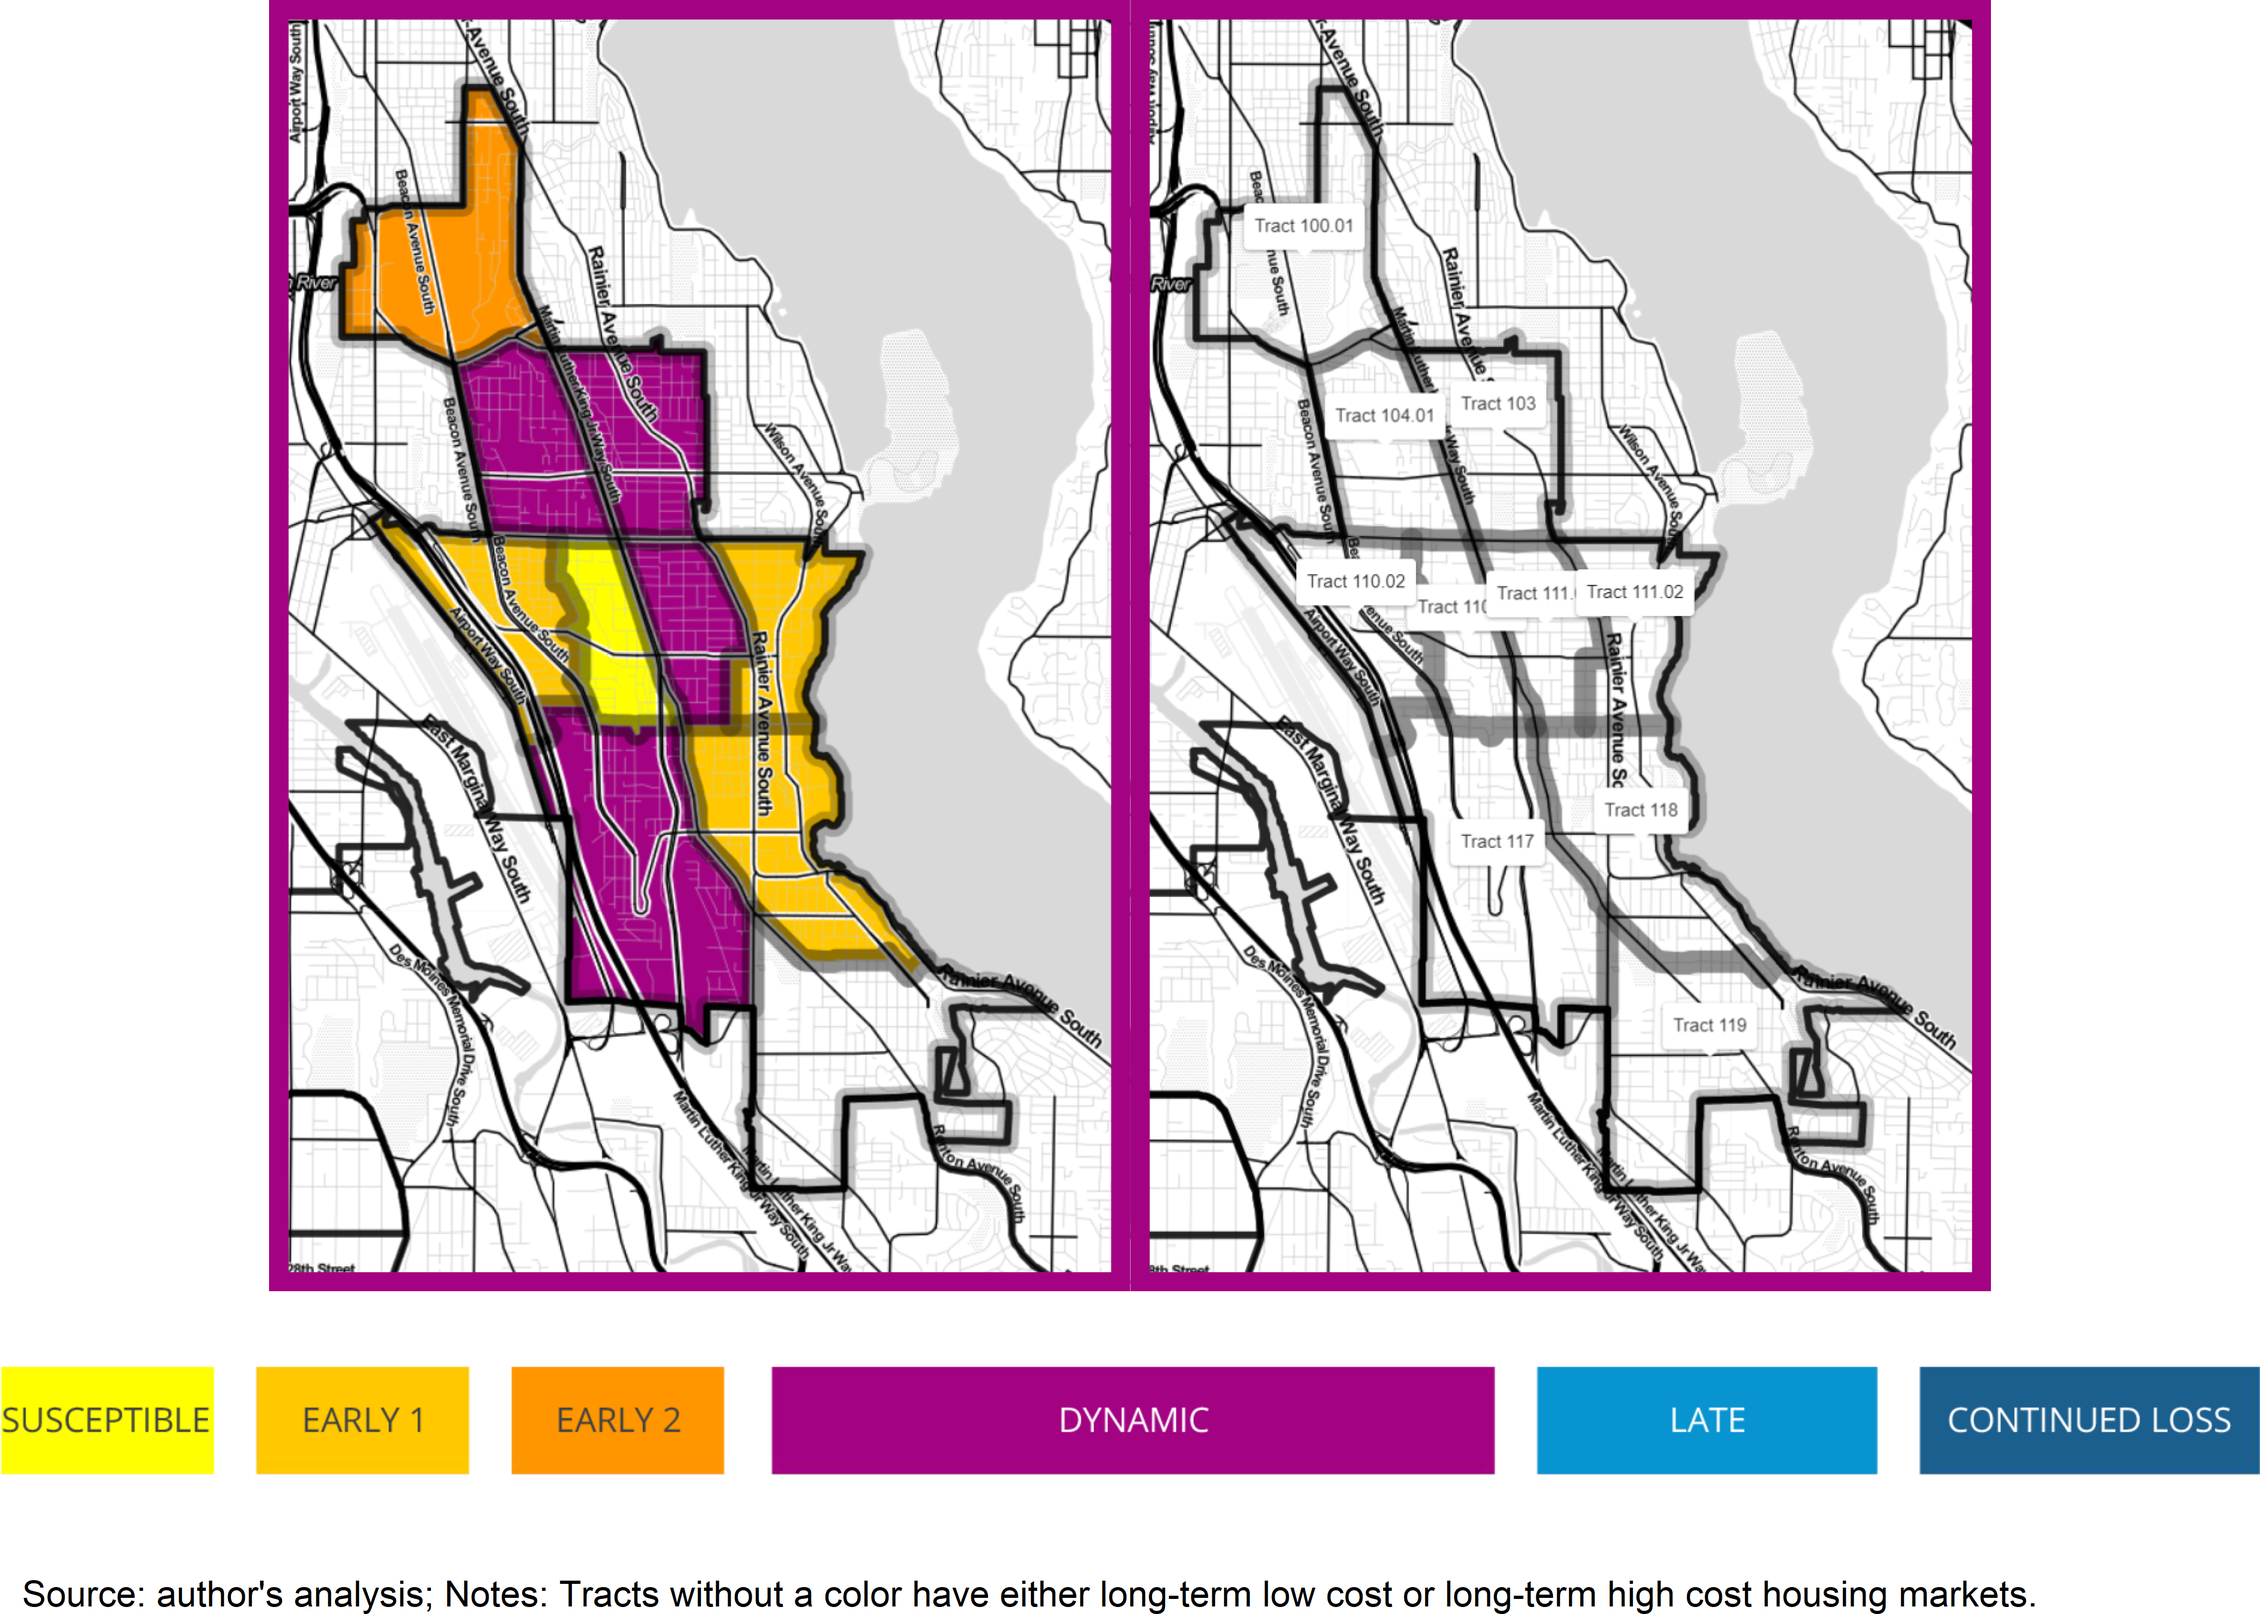
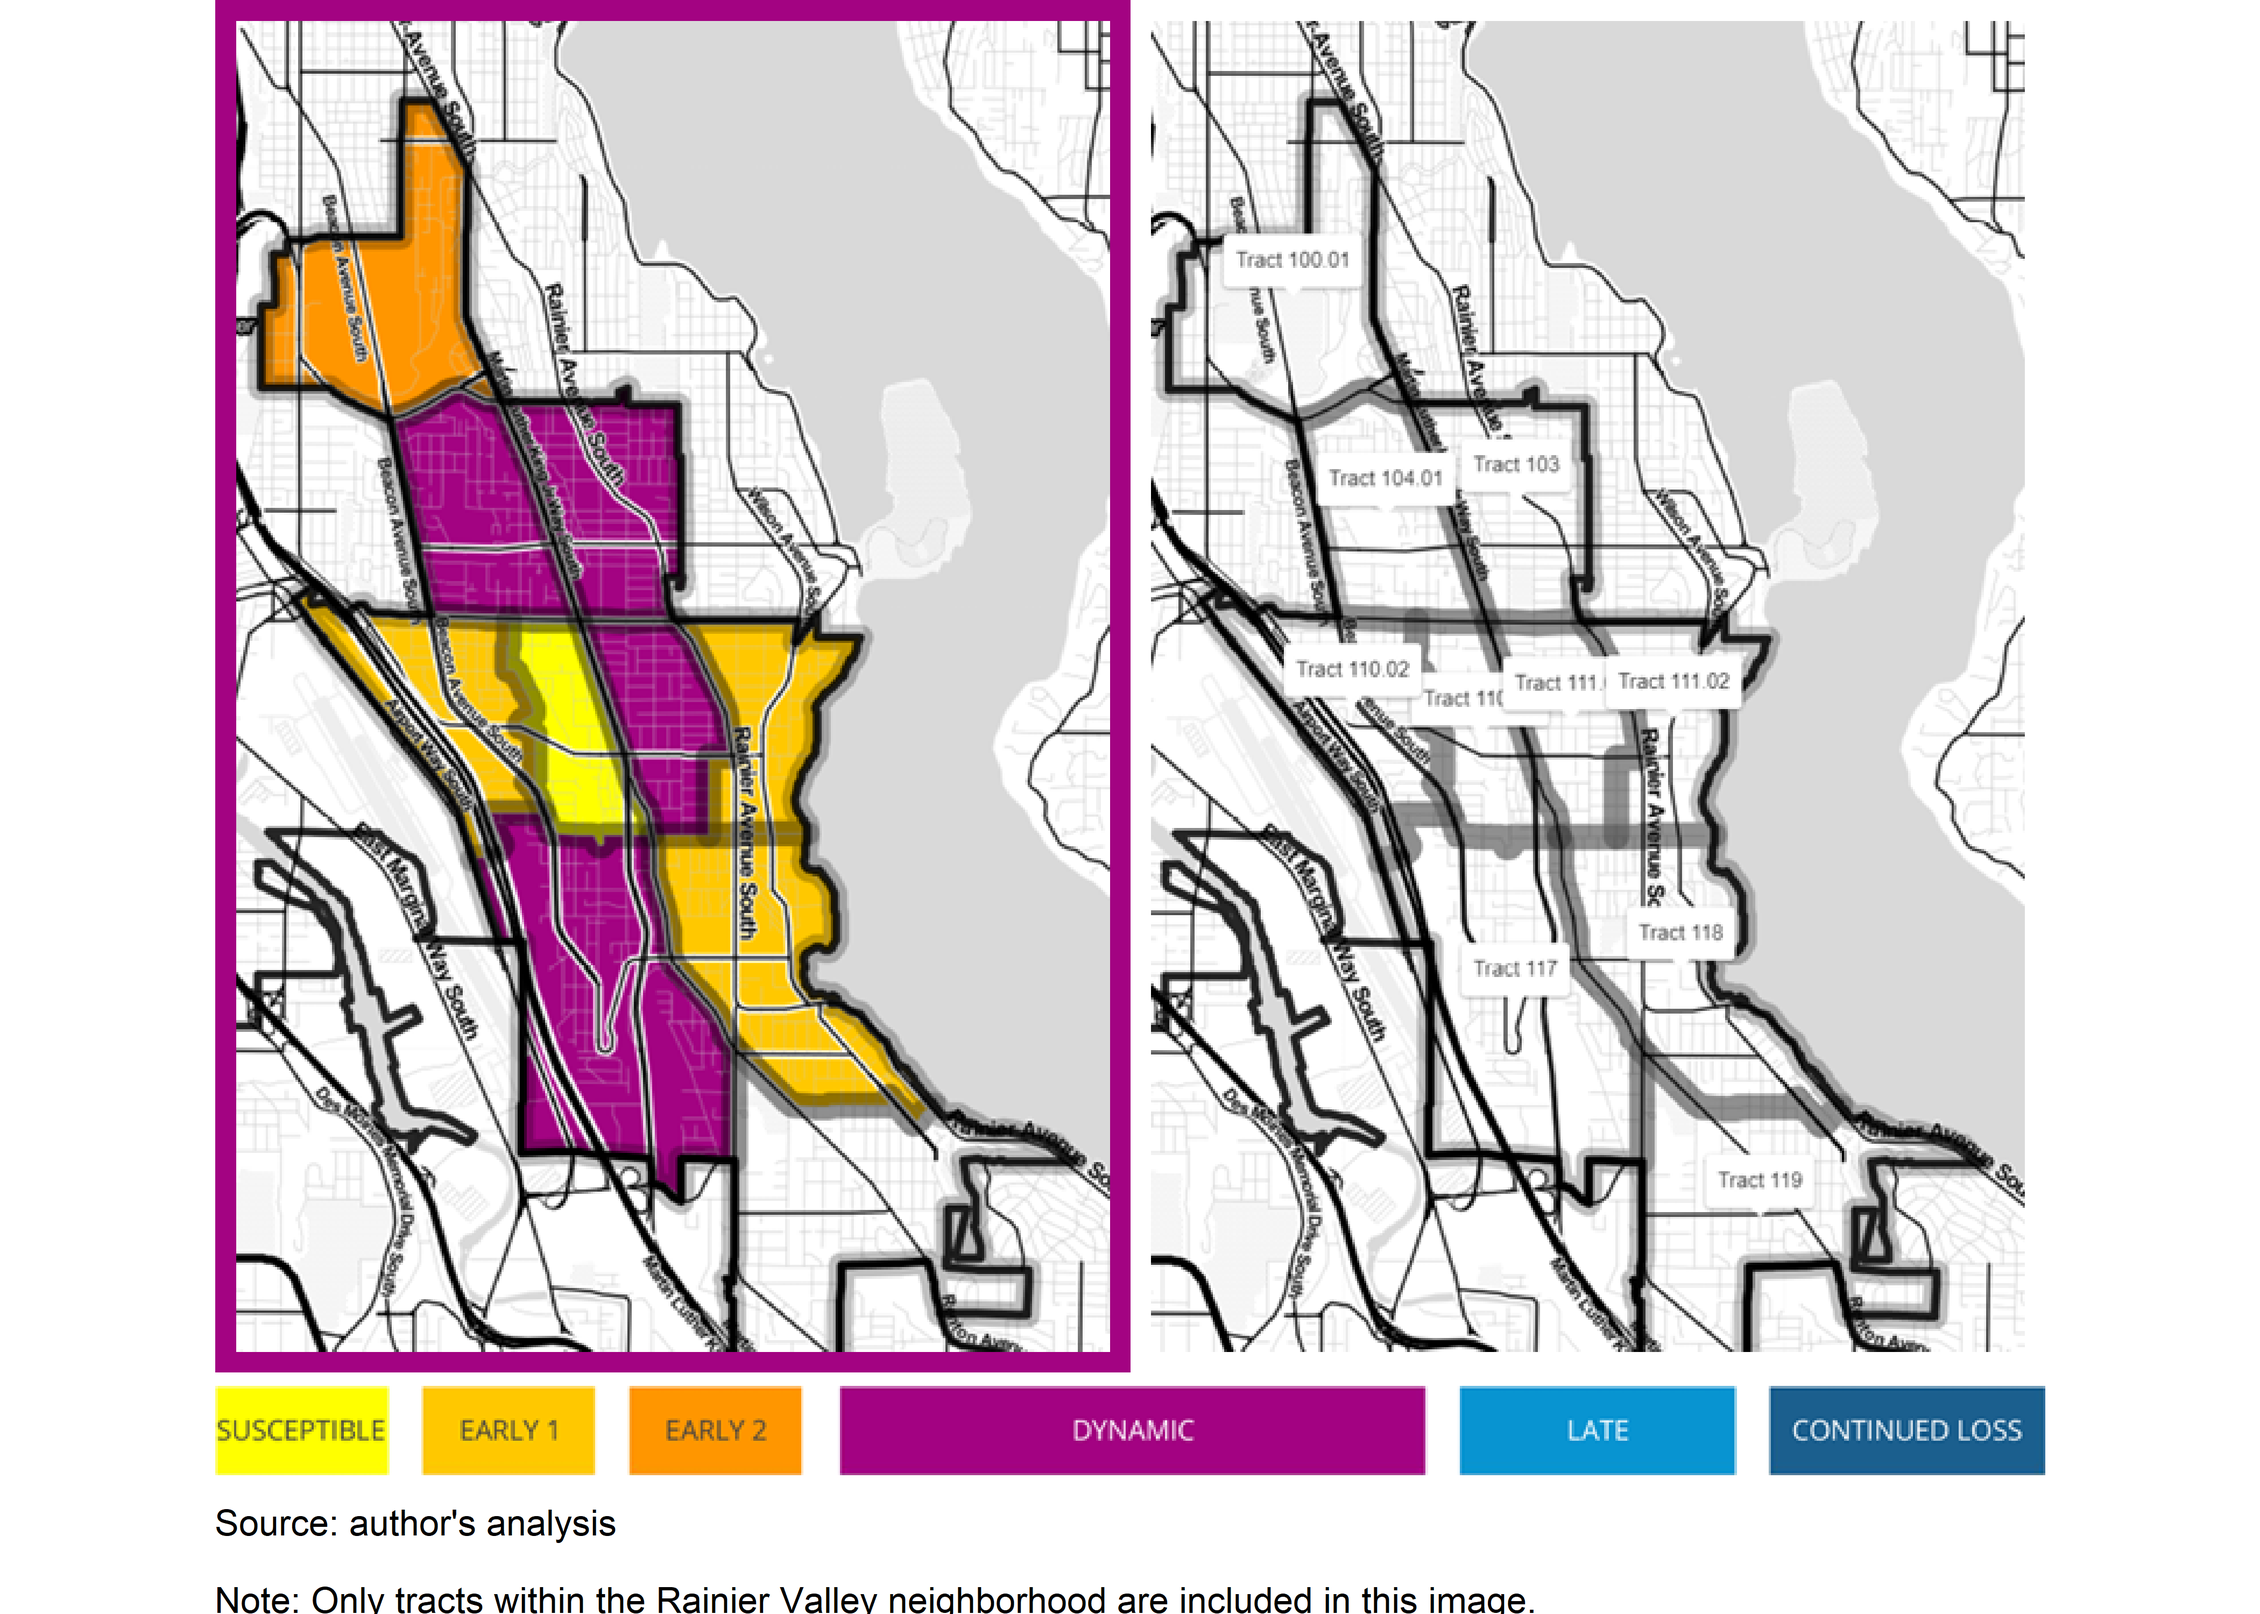
add counts for all coo communities and fix map image formatting

diff --git a/00-bookdown/_book/methods.html b/00-bookdown/_book/methods.html
@@ -190,7 +190,7 @@ Figure 2.1: Bates’ Conceptual model; Source: author’s interpretation of Bate
   font-family: -apple-system, BlinkMacSystemFont, 'Segoe UI', Roboto, Oxygen, Ubuntu, Cantarell, 'Helvetica Neue', 'Fira Sans', 'Droid Sans', Arial, sans-serif;
 }
 
-#gadxkqyfjy .gt_table {
+#xeictyklhl .gt_table {
   display: table;
   border-collapse: collapse;
   margin-left: auto;
@@ -209,13 +209,13 @@ Figure 2.1: Bates’ Conceptual model; Source: author’s interpretation of Bate
   /* table.border.top.color */
 }
 
-#gadxkqyfjy .gt_heading {
+#xeictyklhl .gt_heading {
   background-color: #FFFFFF;
   /* heading.background.color */
   border-bottom-color: #FFFFFF;
 }
 
-#gadxkqyfjy .gt_title {
+#xeictyklhl .gt_title {
   color: #000000;
   font-size: 125%;
   /* heading.title.font.size */
@@ -226,7 +226,7 @@ Figure 2.1: Bates’ Conceptual model; Source: author’s interpretation of Bate
   border-bottom-width: 0;
 }
 
-#gadxkqyfjy .gt_subtitle {
+#xeictyklhl .gt_subtitle {
   color: #000000;
   font-size: 85%;
   /* heading.subtitle.font.size */
@@ -237,7 +237,7 @@ Figure 2.1: Bates’ Conceptual model; Source: author’s interpretation of Bate
   border-top-width: 0;
 }
 
-#gadxkqyfjy .gt_bottom_border {
+#xeictyklhl .gt_bottom_border {
   border-bottom-style: solid;
   /* heading.border.bottom.style */
   border-bottom-width: 2px;
@@ -246,7 +246,7 @@ Figure 2.1: Bates’ Conceptual model; Source: author’s interpretation of Bate
   /* heading.border.bottom.color */
 }
 
-#gadxkqyfjy .gt_column_spanner {
+#xeictyklhl .gt_column_spanner {
   border-bottom-style: solid;
   border-bottom-width: 2px;
   border-bottom-color: #A8A8A8;
@@ -254,7 +254,7 @@ Figure 2.1: Bates’ Conceptual model; Source: author’s interpretation of Bate
   padding-bottom: 4px;
 }
 
-#gadxkqyfjy .gt_col_heading {
+#xeictyklhl .gt_col_heading {
   color: #000000;
   background-color: #FFFFFF;
   /* column_labels.background.color */
@@ -267,11 +267,11 @@ Figure 2.1: Bates’ Conceptual model; Source: author’s interpretation of Bate
   margin: 10px;
 }
 
-#gadxkqyfjy .gt_sep_right {
+#xeictyklhl .gt_sep_right {
   border-right: 5px solid #FFFFFF;
 }
 
-#gadxkqyfjy .gt_group_heading {
+#xeictyklhl .gt_group_heading {
   padding: 8px;
   color: #000000;
   background-color: #FFFFFF;
@@ -295,7 +295,7 @@ Figure 2.1: Bates’ Conceptual model; Source: author’s interpretation of Bate
   vertical-align: middle;
 }
 
-#gadxkqyfjy .gt_empty_group_heading {
+#xeictyklhl .gt_empty_group_heading {
   padding: 0.5px;
   color: #000000;
   background-color: #FFFFFF;
@@ -319,37 +319,37 @@ Figure 2.1: Bates’ Conceptual model; Source: author’s interpretation of Bate
   vertical-align: middle;
 }
 
-#gadxkqyfjy .gt_striped {
+#xeictyklhl .gt_striped {
   background-color: #f2f2f2;
 }
 
-#gadxkqyfjy .gt_from_md > :first-child {
+#xeictyklhl .gt_from_md > :first-child {
   margin-top: 0;
 }
 
-#gadxkqyfjy .gt_from_md > :last-child {
+#xeictyklhl .gt_from_md > :last-child {
   margin-bottom: 0;
 }
 
-#gadxkqyfjy .gt_row {
+#xeictyklhl .gt_row {
   padding: 10px;
   /* row.padding */
   margin: 10px;
   vertical-align: middle;
 }
 
-#gadxkqyfjy .gt_stub {
+#xeictyklhl .gt_stub {
   border-right-style: solid;
   border-right-width: 2px;
   border-right-color: #A8A8A8;
   padding-left: 12px;
 }
 
-#gadxkqyfjy .gt_stub.gt_row {
+#xeictyklhl .gt_stub.gt_row {
   background-color: #FFFFFF;
 }
 
-#gadxkqyfjy .gt_summary_row {
+#xeictyklhl .gt_summary_row {
   background-color: #FFFFFF;
   /* summary_row.background.color */
   padding: 6px;
@@ -358,13 +358,13 @@ Figure 2.1: Bates’ Conceptual model; Source: author’s interpretation of Bate
   /* summary_row.text_transform */
 }
 
-#gadxkqyfjy .gt_first_summary_row {
+#xeictyklhl .gt_first_summary_row {
   border-top-style: solid;
   border-top-width: 2px;
   border-top-color: #A8A8A8;
 }
 
-#gadxkqyfjy .gt_table_body {
+#xeictyklhl .gt_table_body {
   border-top-style: solid;
   /* field.border.top.style */
   border-top-width: 2px;
@@ -379,55 +379,55 @@ Figure 2.1: Bates’ Conceptual model; Source: author’s interpretation of Bate
   /* field.border.bottom.color */
 }
 
-#gadxkqyfjy .gt_footnote {
+#xeictyklhl .gt_footnote {
   font-size: 90%;
   /* footnote.font.size */
   padding: 4px;
   /* footnote.padding */
 }
 
-#gadxkqyfjy .gt_sourcenote {
+#xeictyklhl .gt_sourcenote {
   font-size: 90%;
   /* sourcenote.font.size */
   padding: 4px;
   /* sourcenote.padding */
 }
 
-#gadxkqyfjy .gt_center {
+#xeictyklhl .gt_center {
   text-align: center;
 }
 
-#gadxkqyfjy .gt_left {
+#xeictyklhl .gt_left {
   text-align: left;
 }
 
-#gadxkqyfjy .gt_right {
+#xeictyklhl .gt_right {
   text-align: right;
   font-variant-numeric: tabular-nums;
 }
 
-#gadxkqyfjy .gt_font_normal {
+#xeictyklhl .gt_font_normal {
   font-weight: normal;
 }
 
-#gadxkqyfjy .gt_font_bold {
+#xeictyklhl .gt_font_bold {
   font-weight: bold;
 }
 
-#gadxkqyfjy .gt_font_italic {
+#xeictyklhl .gt_font_italic {
   font-style: italic;
 }
 
-#gadxkqyfjy .gt_super {
+#xeictyklhl .gt_super {
   font-size: 65%;
 }
 
-#gadxkqyfjy .gt_footnote_glyph {
+#xeictyklhl .gt_footnote_glyph {
   font-style: italic;
   font-size: 65%;
 }
 </style>
-<div id="gadxkqyfjy" style="overflow-x:auto;"><!--gt table start-->
+<div id="xeictyklhl" style="overflow-x:auto;"><!--gt table start-->
 <table class='gt_table'>
 <tr>
 <th class='gt_col_heading gt_left' rowspan='1' colspan='1'>TYPE</th>

diff --git a/00-bookdown/_book/findings.html b/00-bookdown/_book/findings.html
@@ -136,25 +136,40 @@ Figure 3.4: COO Neighborhood Change Typology - Multifamily (2018)
 </p>
 </div>
 </div>
-<div id="coo-revised-model-results-white-center" class="section level2">
-<h2><span class="header-section-number">3.3</span> COO Revised Model Results: White Center</h2>
+<div id="coo-revised-model-results-by-community" class="section level2">
+<h2><span class="header-section-number">3.3</span> COO Revised Model Results By Community</h2>
+<div class="figure"><span id="fig:findings-type-by-comm-counts"></span>
+<img src="figures/findings-type-by-comm-counts-1.png" alt="The number of tracts in each typology type by COO Community" width="100%" />
+<p class="caption">
+Figure 3.5: The number of tracts in each typology type by COO Community
+</p>
+</div>
+<div id="coo-revised-model-results-white-center" class="section level3 unnumbered">
+<h3>COO Revised Model Results: White Center</h3>
 <div class="figure"><span id="fig:findings-wc-map"></span>
 <img src="figures/findings-wc-map-1.png" alt="COO Neighborhood Change Typology: White Center (2018)" width="100%" />
 <p class="caption">
-Figure 3.5: COO Neighborhood Change Typology: White Center (2018)
+Figure 3.6: COO Neighborhood Change Typology: White Center (2018)
 </p>
 </div>
+</div>
+<div id="coo-revised-model-results-rainier-valley" class="section level3 unnumbered">
+<h3>COO Revised Model Results: Rainier Valley</h3>
 <div class="figure"><span id="fig:findings-rv-map"></span>
 <img src="figures/findings-rv-map-1.png" alt="COO Neighborhood Change Typology: Rainier Valley (2018)" width="100%" />
 <p class="caption">
-Figure 3.6: COO Neighborhood Change Typology: Rainier Valley (2018)
+Figure 3.7: COO Neighborhood Change Typology: Rainier Valley (2018)
 </p>
 </div>
+</div>
+<div id="coo-revised-model-results-seatac-tukwila" class="section level3 unnumbered">
+<h3>COO Revised Model Results: Seatac &amp; Tukwila</h3>
 <div class="figure"><span id="fig:findings-stk-map"></span>
 <img src="figures/findings-stk-map-1.png" alt="COO Neighborhood Change Typology: Seatac/Tukwila (2018)" width="100%" />
 <p class="caption">
-Figure 3.7: COO Neighborhood Change Typology: Seatac/Tukwila (2018)
+Figure 3.8: COO Neighborhood Change Typology: Seatac/Tukwila (2018)
 </p>
+</div>
 </div>
 </div>
 </div>
